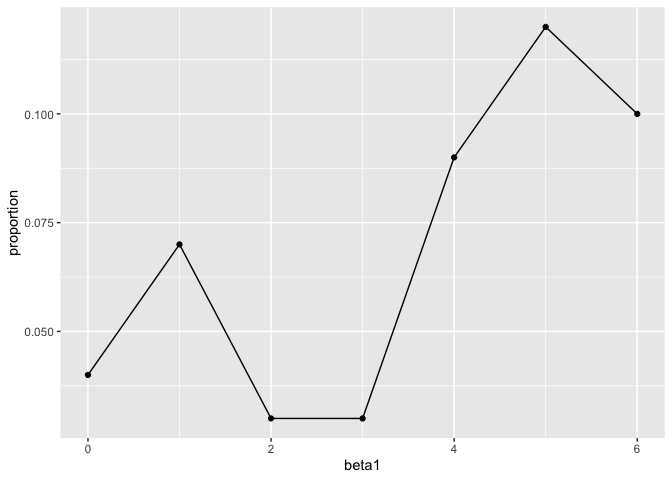
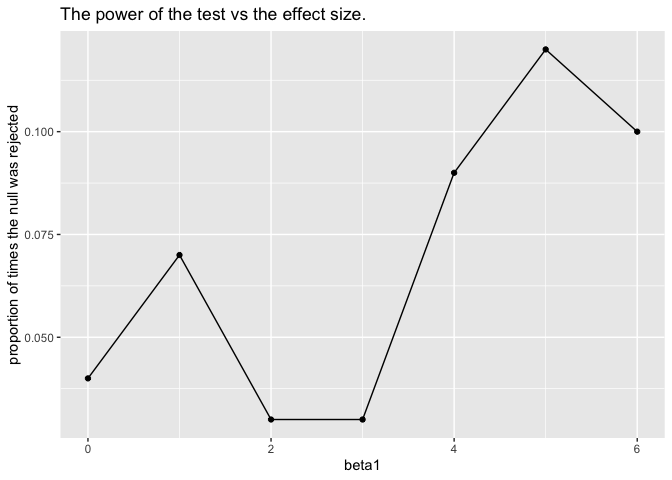
add graphs for problem 3, test using 10 times re-run

diff --git a/p8105_hw5_jf3285.md b/p8105_hw5_jf3285.md
@@ -381,7 +381,31 @@ reject_proportion
 ``` r
 ggplot(reject_proportion, aes(x = beta1, y = proportion)) + 
   geom_point() +
-  geom_line()
+  geom_line() +
+  labs(y = "proportion of times the null was rejected",
+       title = "The power of the test vs the effect size.")
 ```
 
 ![](p8105_hw5_jf3285_files/figure-gfm/unnamed-chunk-3-1.png)<!-- -->
+
+``` r
+average_estimate = 
+  sim_results %>% 
+  group_by(beta1) %>% 
+  summarize(avg = mean(beta1_hat))
+
+average_reject_null = 
+  sim_results %>% 
+  group_by(beta1) %>% 
+  summarize(avg = mean(beta1_hat[p_value < 0.05]))
+
+ggplot() +
+  geom_point(average_estimate, mapping = aes(x = beta1, y = avg))+
+  geom_line(average_estimate, mapping = aes(x = beta1, y = avg, color = "sample average")) +
+  geom_point(average_reject_null, mapping = aes(x = beta1, y = avg)) +
+  geom_line(average_reject_null, mapping = aes(x = beta1, y = avg, color = "samples for which the null was rejected")) +
+  labs(y = "average estimate of beta1_hat",
+       title = "The average estimate of beta1_hat vs the true value of beta1.")
+```
+
+![](p8105_hw5_jf3285_files/figure-gfm/unnamed-chunk-3-2.png)<!-- -->
